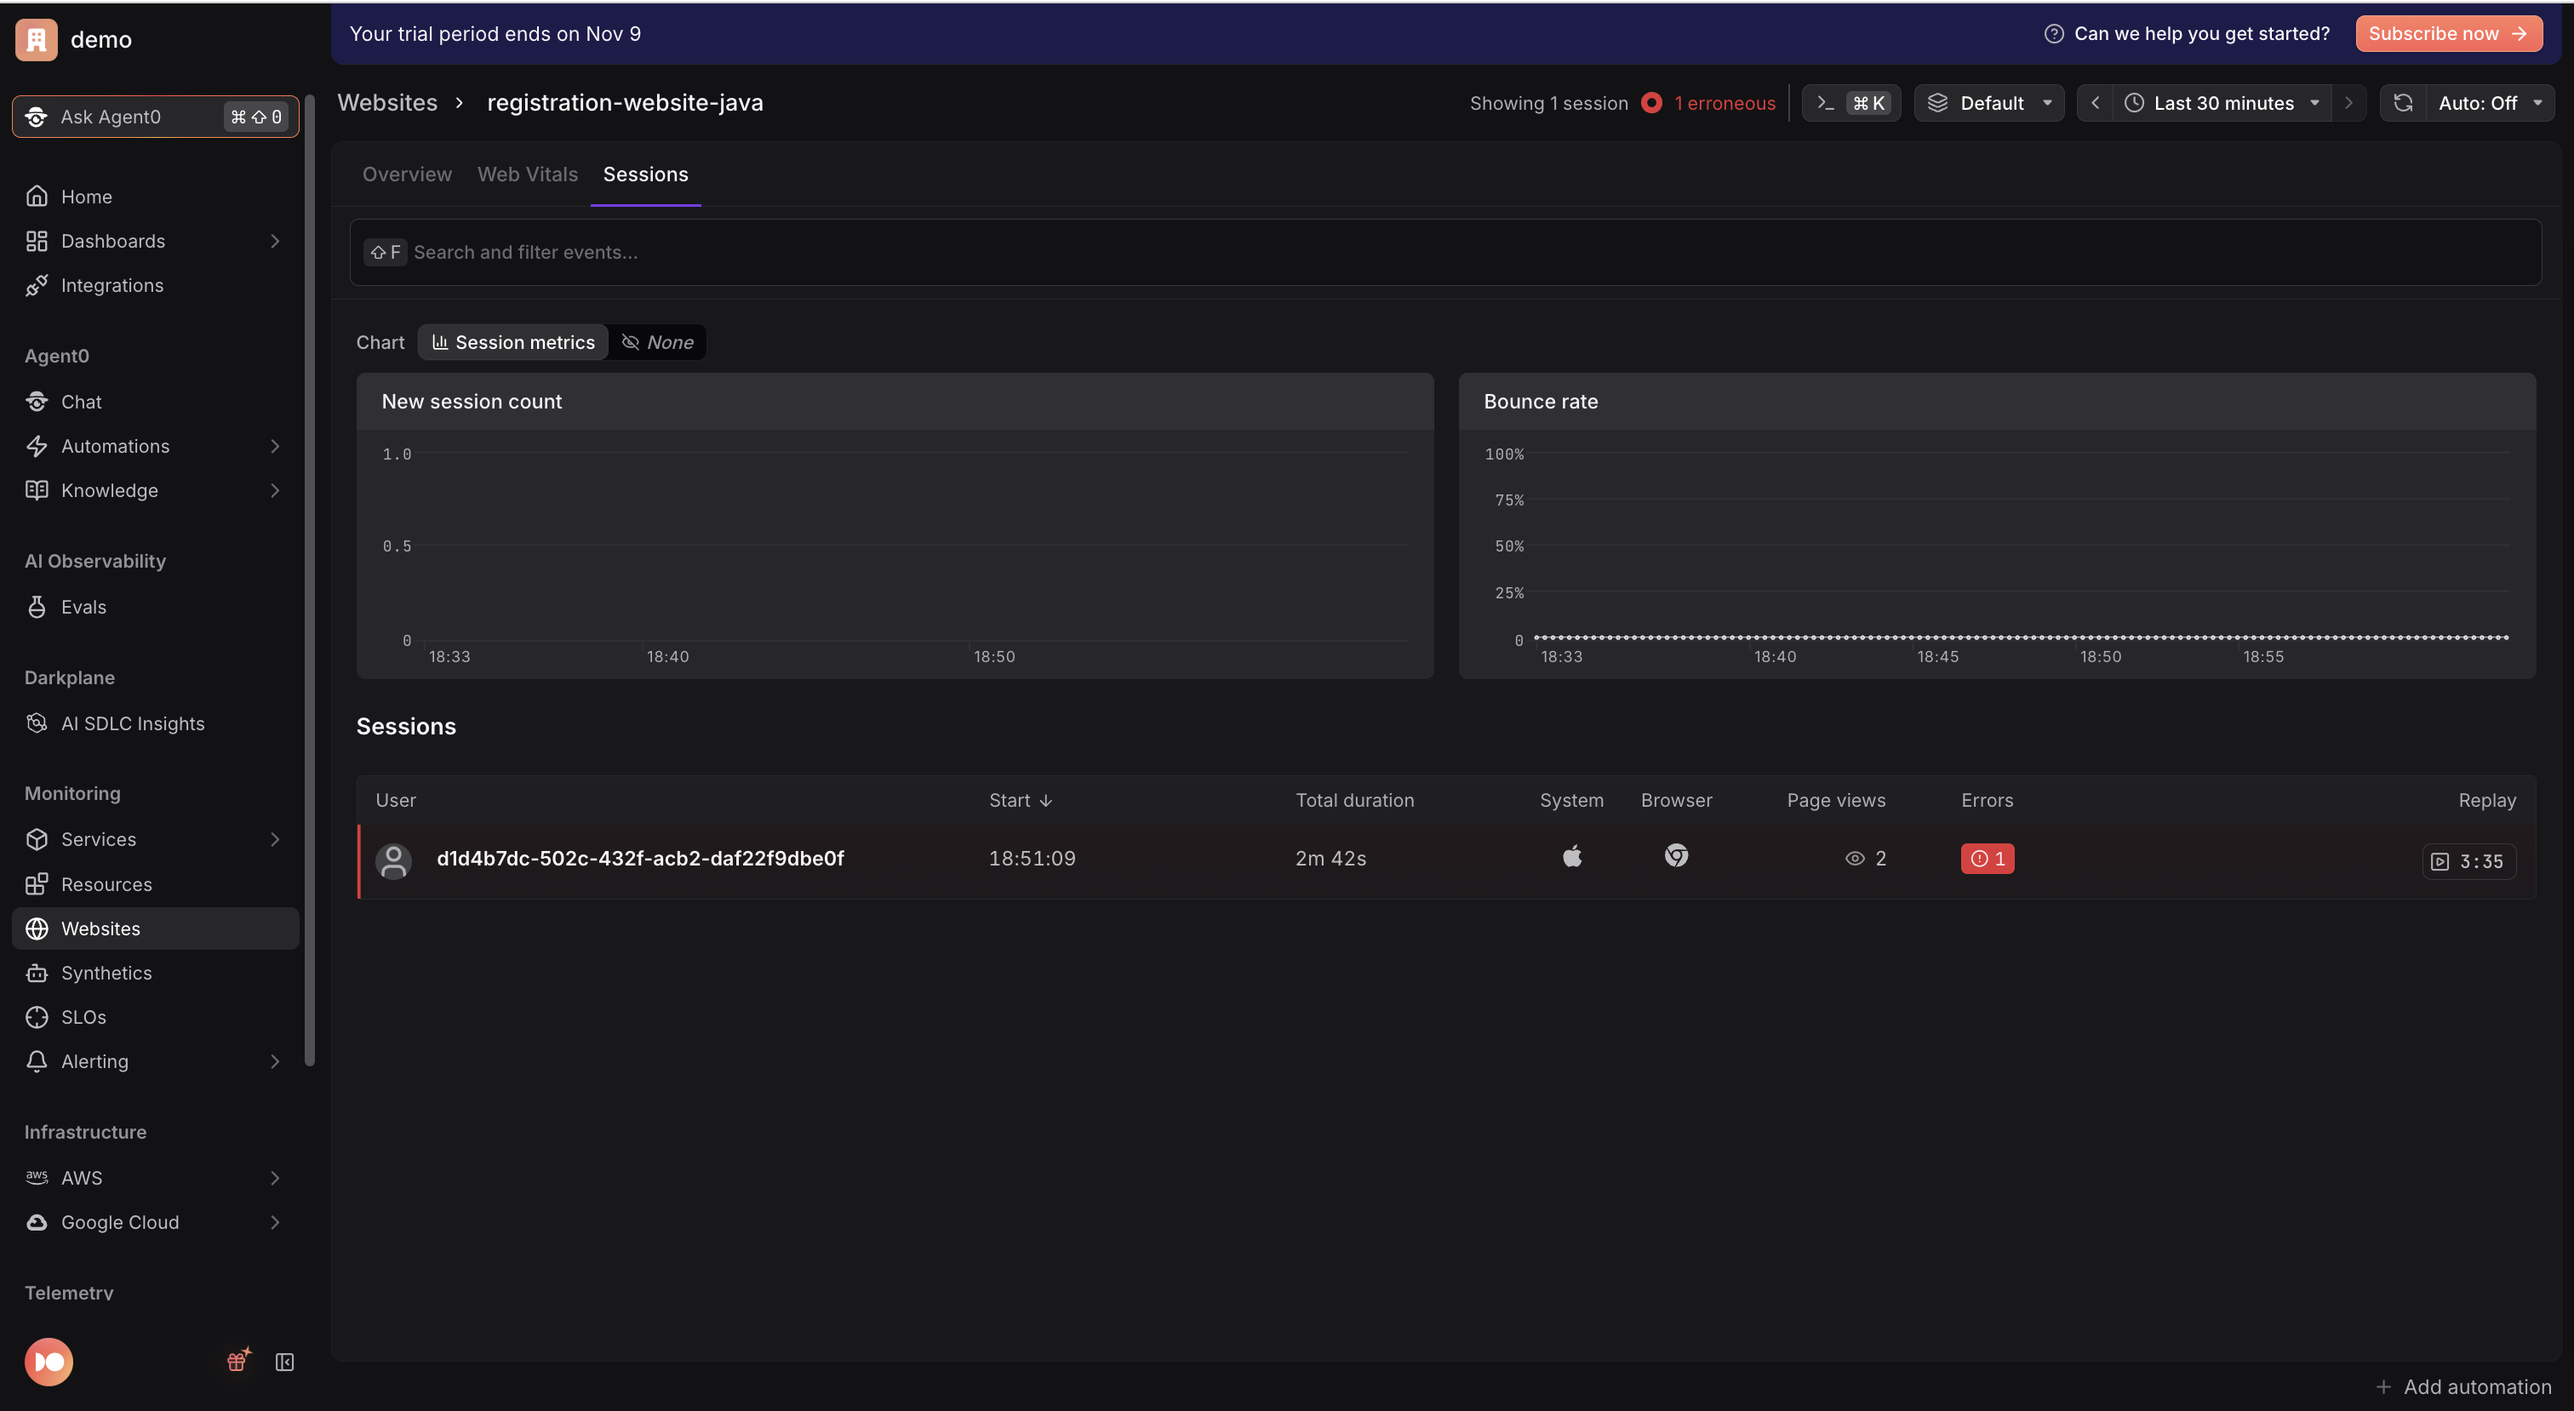
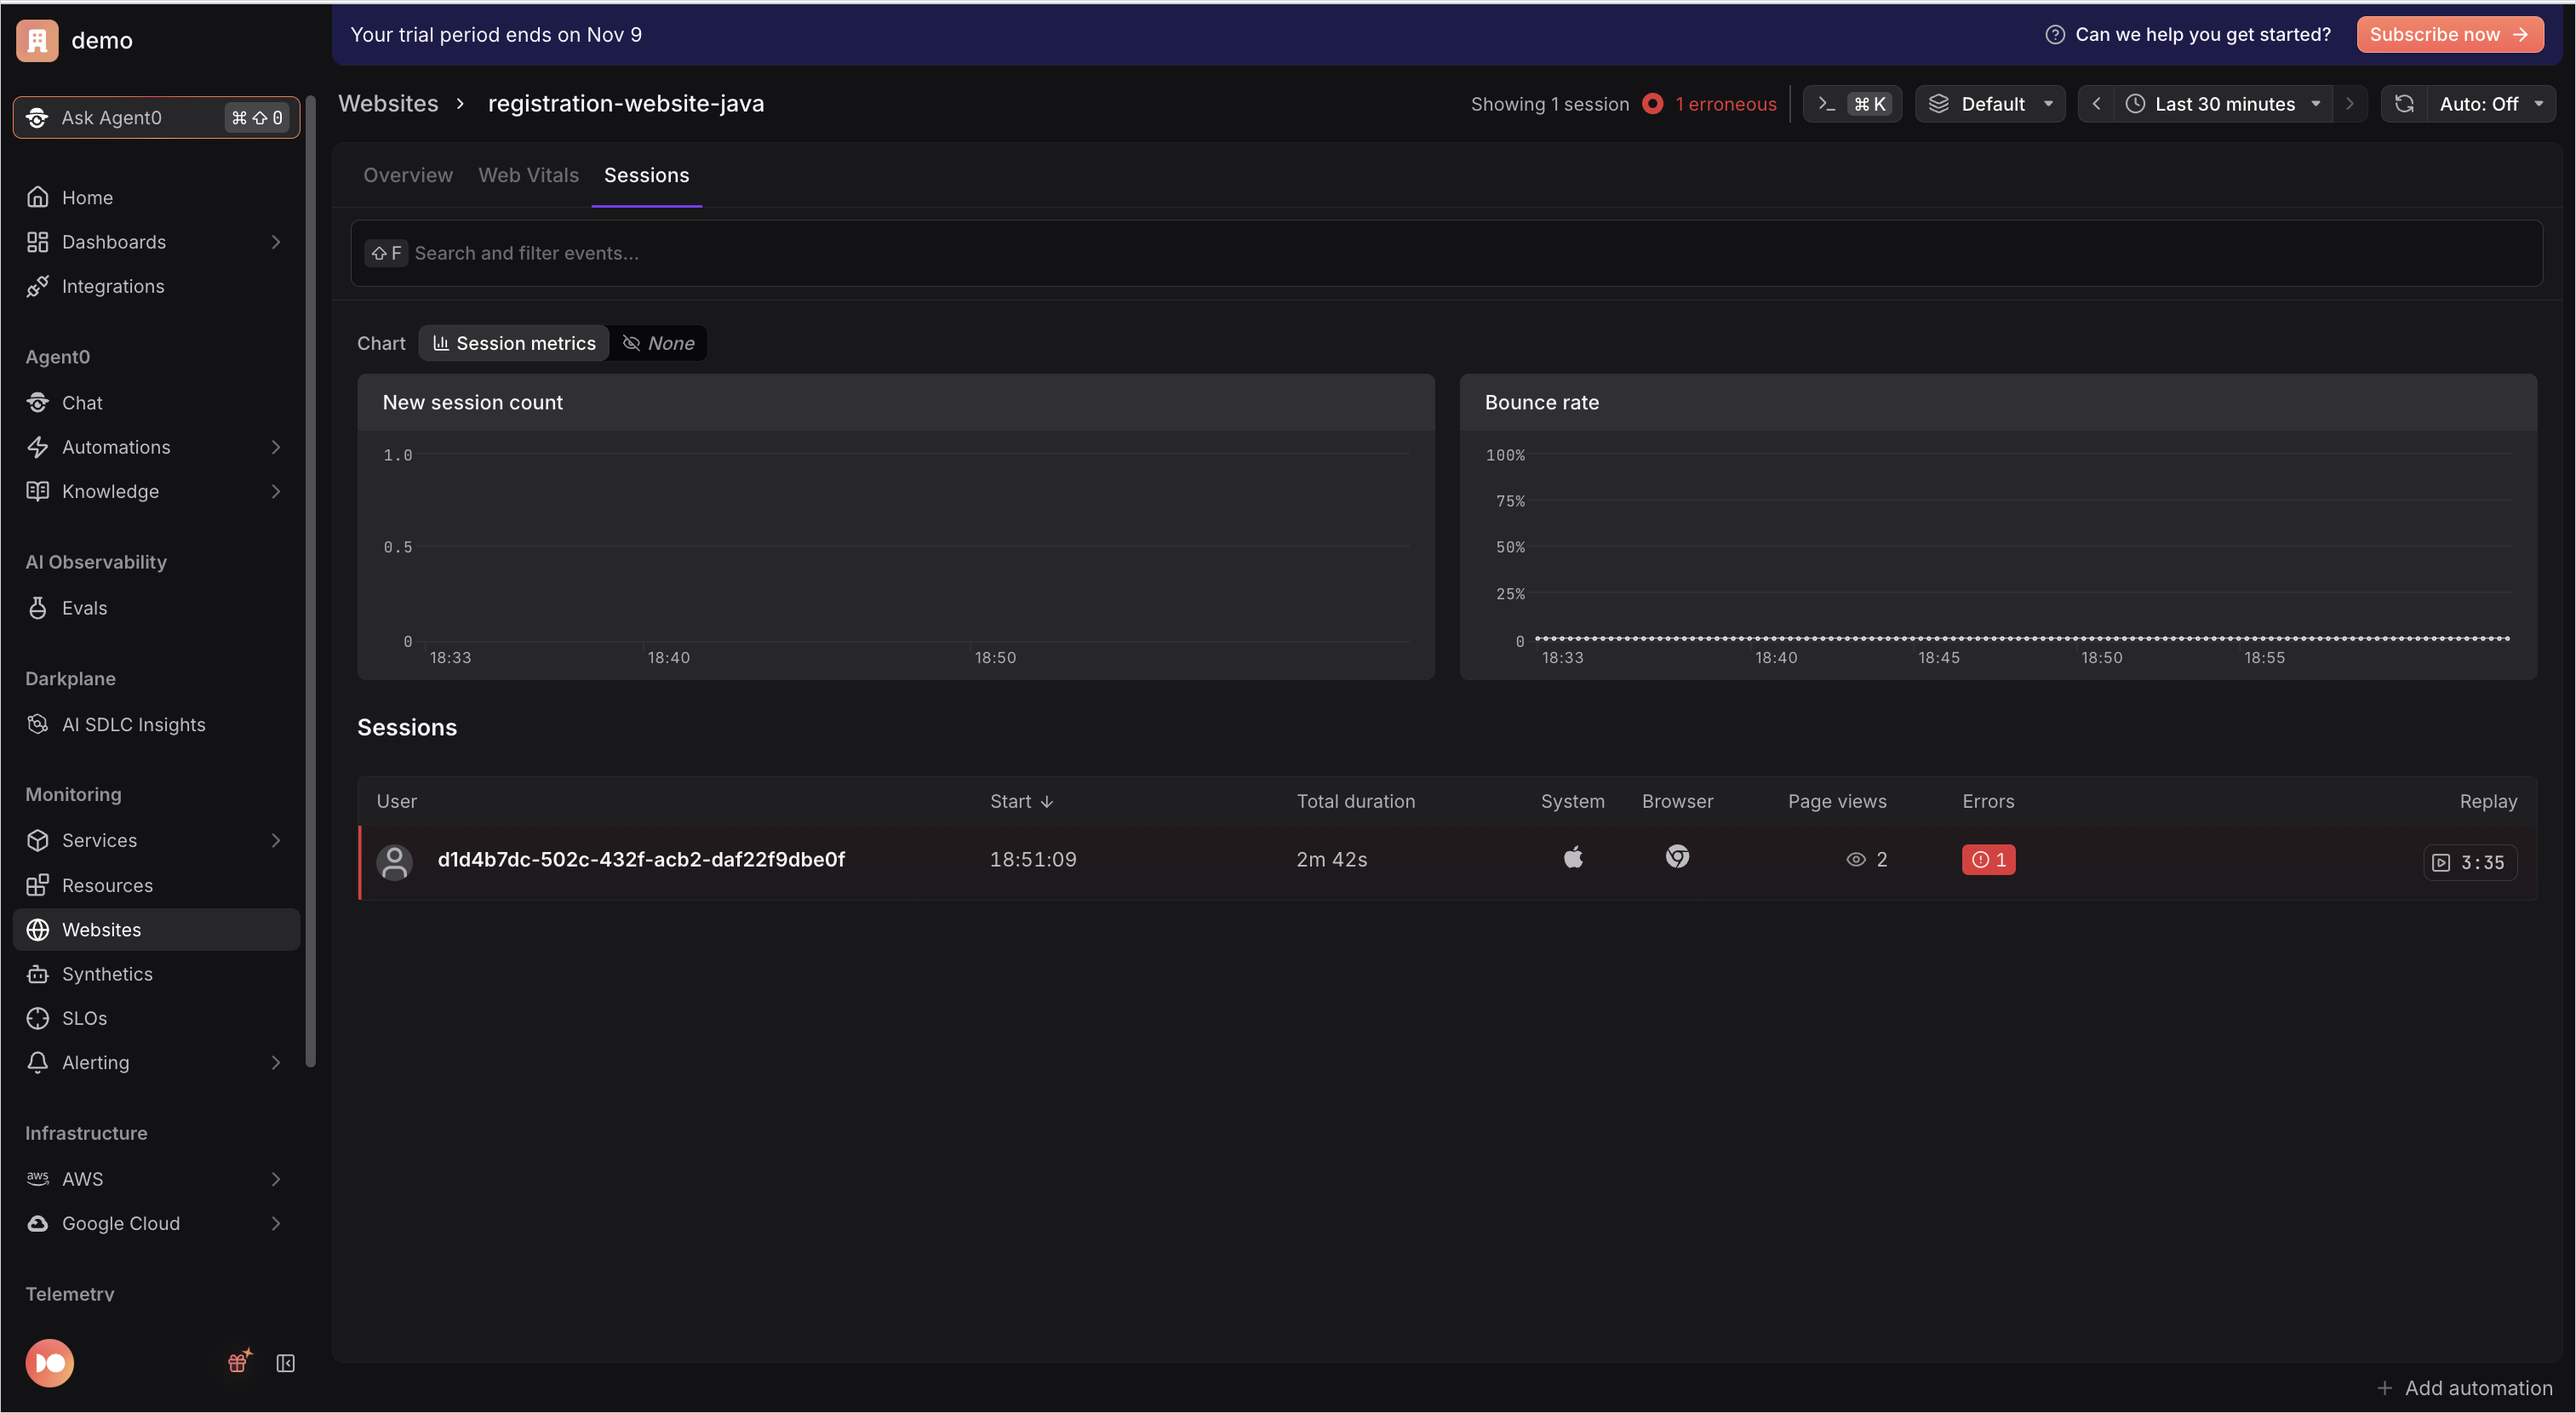
Docs: bake a 1px border into the screenshots
GitHub strips inline style and border attributes from <img> tags, so the
CSS border never showed on the rendered pages. Draw the border into each
PNG instead (1px #d0d7de, 2px larger in each direction) and remove the
inline styles. Originals remain in git history.

diff --git a/README.md b/README.md
@@ -60,21 +60,21 @@ browser.
 
 2. **Services token.** Go to **Settings → Auth Tokens** and create a token, or
    use the **Auto-generated auth token**. It looks like `auth_...`.
-   <p><img style="border:1px solid #d0d7de;border-radius:6px;" src="images/general/auth-token-v2.png" alt="Dash0 Auth Tokens settings" width="900"></p>
+   <p><img src="images/general/auth-token-v2.png" alt="Dash0 Auth Tokens settings" width="900"></p>
 
 3. **Browser token.** Create a second token in **Settings → Auth Tokens**, and
    give it permission to **ingest** data into your dataset and nothing else.
    This token ends up in the HTML of the page, so anyone who opens the page
    can read it. That is normal for browser telemetry, and it is why it must
    not be the token your services use.
-   <p><img style="border:1px solid #d0d7de;border-radius:6px;" src="images/general/web-token-v2.png" alt="Web Token" width="900"></p>
+   <p><img src="images/general/web-token-v2.png" alt="Web Token" width="900"></p>
 
 4. **Endpoint.** Go to **Settings → Endpoints → OTLP via HTTP** for your
    region-specific ingress URL (e.g. `https://ingress.eu-west-1.aws.dash0.com`).
    Use the **HTTP** endpoint, not gRPC: the services export with
    `OTEL_EXPORTER_OTLP_PROTOCOL=http/protobuf`, so a URL with a port must use
    `:4318`, never `:4317`. The browser sends to the same URL.
-   <p><img style="border:1px solid #d0d7de;border-radius:6px;" src="images/general/endpoint-v2a.png" alt="Dash0 OTLP endpoint settings" width="900"></p>
+   <p><img src="images/general/endpoint-v2a.png" alt="Dash0 OTLP endpoint settings" width="900"></p>
 
 5. Copy the template and fill it in:
 
@@ -127,21 +127,21 @@ Replays open in the **Websites** explorer.
 
 The **Sessions** list marks which sessions have a replay.
 
-<p><img style="border:1px solid #d0d7de;border-radius:6px;" src="images/general/websites-01.png" alt="Websites 01" width="900"></p>
+<p><img src="images/general/websites-01.png" alt="Websites 01" width="900"></p>
 
-<p><img style="border:1px solid #d0d7de;border-radius:6px;" src="images/general/websites-02.png" alt="Websites 02" width="900"></p>
+<p><img src="images/general/websites-02.png" alt="Websites 02" width="900"></p>
 
 Opening one shows the replay above the session's event table. 
 
-<p><img style="border:1px solid #d0d7de;border-radius:6px;" src="images/general/websites-03.png" alt="Websites 03" width="900"></p>
+<p><img src="images/general/websites-03.png" alt="Websites 03" width="900"></p>
 
 From any web event, **View full session** opens the replay at that moment. 
 
-<p><img style="border:1px solid #d0d7de;border-radius:6px;" src="images/general/websites-04.png" alt="Websites 04" width="900"></p>
+<p><img src="images/general/websites-04.png" alt="Websites 04" width="900"></p>
 
 On an HTTP request, **Open trace** opens the backend trace it started.
 
-<p><img style="border:1px solid #d0d7de;border-radius:6px;" src="images/general/websites-05.png" alt="Websites 05" width="900"></p>
+<p><img src="images/general/websites-05.png" alt="Websites 05" width="900"></p>
 
 A replay can take up to a minute to arrive after you stop clicking: the
 recorder sends chunks every few seconds, and a session may still be "open".
@@ -151,27 +151,27 @@ recorder sends chunks every few seconds, and a session may still be "open".
 1. Register once with made-up data and a normal email.
 2. In Dash0, find your session. The quickest way: filter sessions by
    `user.id` = the **registration id** on your screen. 
-   <p><img style="border:1px solid #d0d7de;border-radius:6px;" src="images/general/user-id-01.png" alt="User ID 01" width="500"></p>
+   <p><img src="images/general/user-id-01.png" alt="User ID 01" width="500"></p>
    The page calls
    `identify()` with that id after a successful registration. It deliberately
    does not use the email address.
-   <p><img style="border:1px solid #d0d7de;border-radius:6px;" src="images/general/user-id-02.png" alt="User ID 02" width="900"></p>
+   <p><img src="images/general/user-id-02.png" alt="User ID 02" width="900"></p>
 3. Watch the replay. Notice that every field you typed into shows `****`:
    session replay masks all input values by default, in the browser, before
    anything is sent.
-   <p><img style="border:1px solid #d0d7de;border-radius:6px;" src="images/general/replay.png" alt="Replay" width="900"></p>
+   <p><img src="images/general/replay.png" alt="Replay" width="900"></p>
 
 4. Pause where you clicked **Register**. In the event table, open the HTTP
    request to `/api/registrations` and choose **Open trace**. 
    On an HTTP request, **Open trace** opens the backend trace it started.
-   <p><img style="border:1px solid #d0d7de;border-radius:6px;" src="images/general/websites-05.png" alt="Websites 05" width="900"></p>
+   <p><img src="images/general/websites-05.png" alt="Websites 05" width="900"></p>
 
 5. You see
    one trace across three services: the browser's request
    (`registration-website-<lang>`), then the frontend (`registration-web-<lang>`),
    then `registration-api-<lang>` with `validate-registration`, `save-registration`
    and `send-confirmation-email`.
-   <p><img style="border:1px solid #d0d7de;border-radius:6px;" src="images/general/websites-06.png" alt="Websites 06" width="900"></p>
+   <p><img src="images/general/websites-06.png" alt="Websites 06" width="900"></p>
 
    **Note:** If the trace shows only the browser span or the page says
    *No traces received yet*, see
@@ -400,7 +400,7 @@ them as errors with a stack trace, and the failing span is
 In the session's event table, click the `POST /api/registrations` row, then
 click **Open trace** in the side panel's **Request Context** section. This is
 the step in [Exercise 1](#exercise-1--one-click-one-trace).
-<p><img style="border:1px solid #d0d7de;border-radius:6px;" src="images/general/websites-05.png" alt="Websites 05" width="900"></p>
+<p><img src="images/general/websites-05.png" alt="Websites 05" width="900"></p>
 
 ---
 

diff --git a/apps/java/README.md b/apps/java/README.md
@@ -60,14 +60,14 @@ cp .env.example .env      # run from the repository root
 - **Auth token**: Dash0 app → **Settings → Auth Tokens** → create a token
   (`auth_...`), or use the **Auto-generated auth token** → put it in
   `DASH0_AUTH_TOKEN`.
-  <p><img style="border:1px solid #d0d7de;border-radius:6px;" src="../../images/general/auth-token-v2.png" alt="Dash0 Auth Tokens settings" width="900"></p>
+  <p><img src="../../images/general/auth-token-v2.png" alt="Dash0 Auth Tokens settings" width="900"></p>
 - **OTLP endpoint**: Dash0 app → **Settings → Endpoints → OTLP via HTTP** shows
   your fully-resolved, region-specific ingress URL
   (e.g. `https://ingress.eu-west-1.aws.dash0.com`) → put it in
   `OTEL_EXPORTER_OTLP_ENDPOINT`. Use the **HTTP** endpoint (protocol is
   `http/protobuf`): if it carries a port it must be `:4318`, never `:4317`
   (gRPC → `HTTP 415`); no port is fine (defaults to 443).
-  <p><img style="border:1px solid #d0d7de;border-radius:6px;" src="../../images/general/endpoint-v2a.png" alt="Dash0 OTLP endpoint settings" width="900"></p>
+  <p><img src="../../images/general/endpoint-v2a.png" alt="Dash0 OTLP endpoint settings" width="900"></p>
 - `OTEL_EXPORTER_OTLP_PROTOCOL` stays `http/protobuf`.
 - `DASH0_DATASET` stays `default` (auto-created) unless you use another dataset.
 

diff --git a/apps/go/README.md b/apps/go/README.md
@@ -44,14 +44,14 @@ Then edit `.env`:
 - **Auth token** — Dash0 app → **Settings → Auth Tokens** → create a token
   (`auth_...`), or use the **Auto-generated auth token**. Put it in
   `DASH0_AUTH_TOKEN`.
-  <p><img style="border:1px solid #d0d7de;border-radius:6px;" src="../../images/general/auth-token-v2.png" alt="Dash0 Auth Tokens settings" width="900"></p>
+  <p><img src="../../images/general/auth-token-v2.png" alt="Dash0 Auth Tokens settings" width="900"></p>
 - **OTLP endpoint** — Dash0 app → **Settings → Endpoints → OTLP via HTTP** shows
   your fully-resolved, region-specific ingress URL, e.g.
   `https://ingress.eu-west-1.aws.dash0.com`. Put it in
   `OTEL_EXPORTER_OTLP_ENDPOINT`. Use the **HTTP** endpoint (protocol is
   `http/protobuf`): if it carries a port it must be `:4318`, never `:4317`
   (gRPC → `HTTP 415`); no port is fine (defaults to 443).
-  <p><img style="border:1px solid #d0d7de;border-radius:6px;" src="../../images/general/endpoint-v2a.png" alt="Dash0 OTLP endpoint settings" width="900"></p>
+  <p><img src="../../images/general/endpoint-v2a.png" alt="Dash0 OTLP endpoint settings" width="900"></p>
 - `DASH0_DATASET` — leave as `default` unless you created another dataset.
 - `OTEL_EXPORTER_OTLP_PROTOCOL` stays `http/protobuf`.
 

diff --git a/apps/python/README.md b/apps/python/README.md
@@ -67,13 +67,13 @@ Then edit `.env`:
 
 - **`DASH0_AUTH_TOKEN`** — Dash0 app → **Settings → Auth Tokens** → create a
   token (starts with `auth_`), or use the **Auto-generated auth token**.
-  <p><img style="border:1px solid #d0d7de;border-radius:6px;" src="../../images/general/auth-token-v2.png" alt="Dash0 Auth Tokens settings" width="900"></p>
+  <p><img src="../../images/general/auth-token-v2.png" alt="Dash0 Auth Tokens settings" width="900"></p>
 - **`OTEL_EXPORTER_OTLP_ENDPOINT`** — Dash0 app → **Settings → Endpoints → OTLP
   via HTTP** shows your fully-resolved, region-specific ingress URL, e.g.
   `https://ingress.eu-west-1.aws.dash0.com`. Use the **HTTP** endpoint (protocol
   is `http/protobuf`): if it carries a port it must be `:4318`, never `:4317`
   (gRPC → `HTTP 415`); no port is fine (defaults to 443).
-  <p><img style="border:1px solid #d0d7de;border-radius:6px;" src="../../images/general/endpoint-v2a.png" alt="Dash0 OTLP endpoint settings" width="900"></p>
+  <p><img src="../../images/general/endpoint-v2a.png" alt="Dash0 OTLP endpoint settings" width="900"></p>
 - **`DASH0_DATASET`** — target dataset (`default` is auto-created).
 - `OTEL_EXPORTER_OTLP_PROTOCOL` stays `http/protobuf`.
 

diff --git a/apps/nodejs/README.md b/apps/nodejs/README.md
@@ -32,13 +32,13 @@ See [`../SPEC.md`](../SPEC.md) for the shared contract all languages implement.
 
 1. **Auth token:** Dash0 app → **Settings → Auth Tokens** → create a token
    (starts with `auth_...`), or use the **Auto-generated auth token**.
-   <p><img style="border:1px solid #d0d7de;border-radius:6px;" src="../../images/general/auth-token-v2.png" alt="Dash0 Auth Tokens settings" width="900"></p>
+   <p><img src="../../images/general/auth-token-v2.png" alt="Dash0 Auth Tokens settings" width="900"></p>
 2. **OTLP endpoint:** Dash0 app → **Settings → Endpoints → OTLP via HTTP** shows
    your fully-resolved, region-specific ingress URL, e.g.
    `https://ingress.eu-west-1.aws.dash0.com`. Use the **HTTP** endpoint (protocol
    is `http/protobuf`): if it carries a port it must be `:4318`, never `:4317`
    (gRPC → `HTTP 415`); no port is fine (defaults to 443).
-   <p><img style="border:1px solid #d0d7de;border-radius:6px;" src="../../images/general/endpoint-v2a.png" alt="Dash0 OTLP endpoint settings" width="900"></p>
+   <p><img src="../../images/general/endpoint-v2a.png" alt="Dash0 OTLP endpoint settings" width="900"></p>
 
 Fill these into the **root** `.env` (shared by every app in this repo):
 
